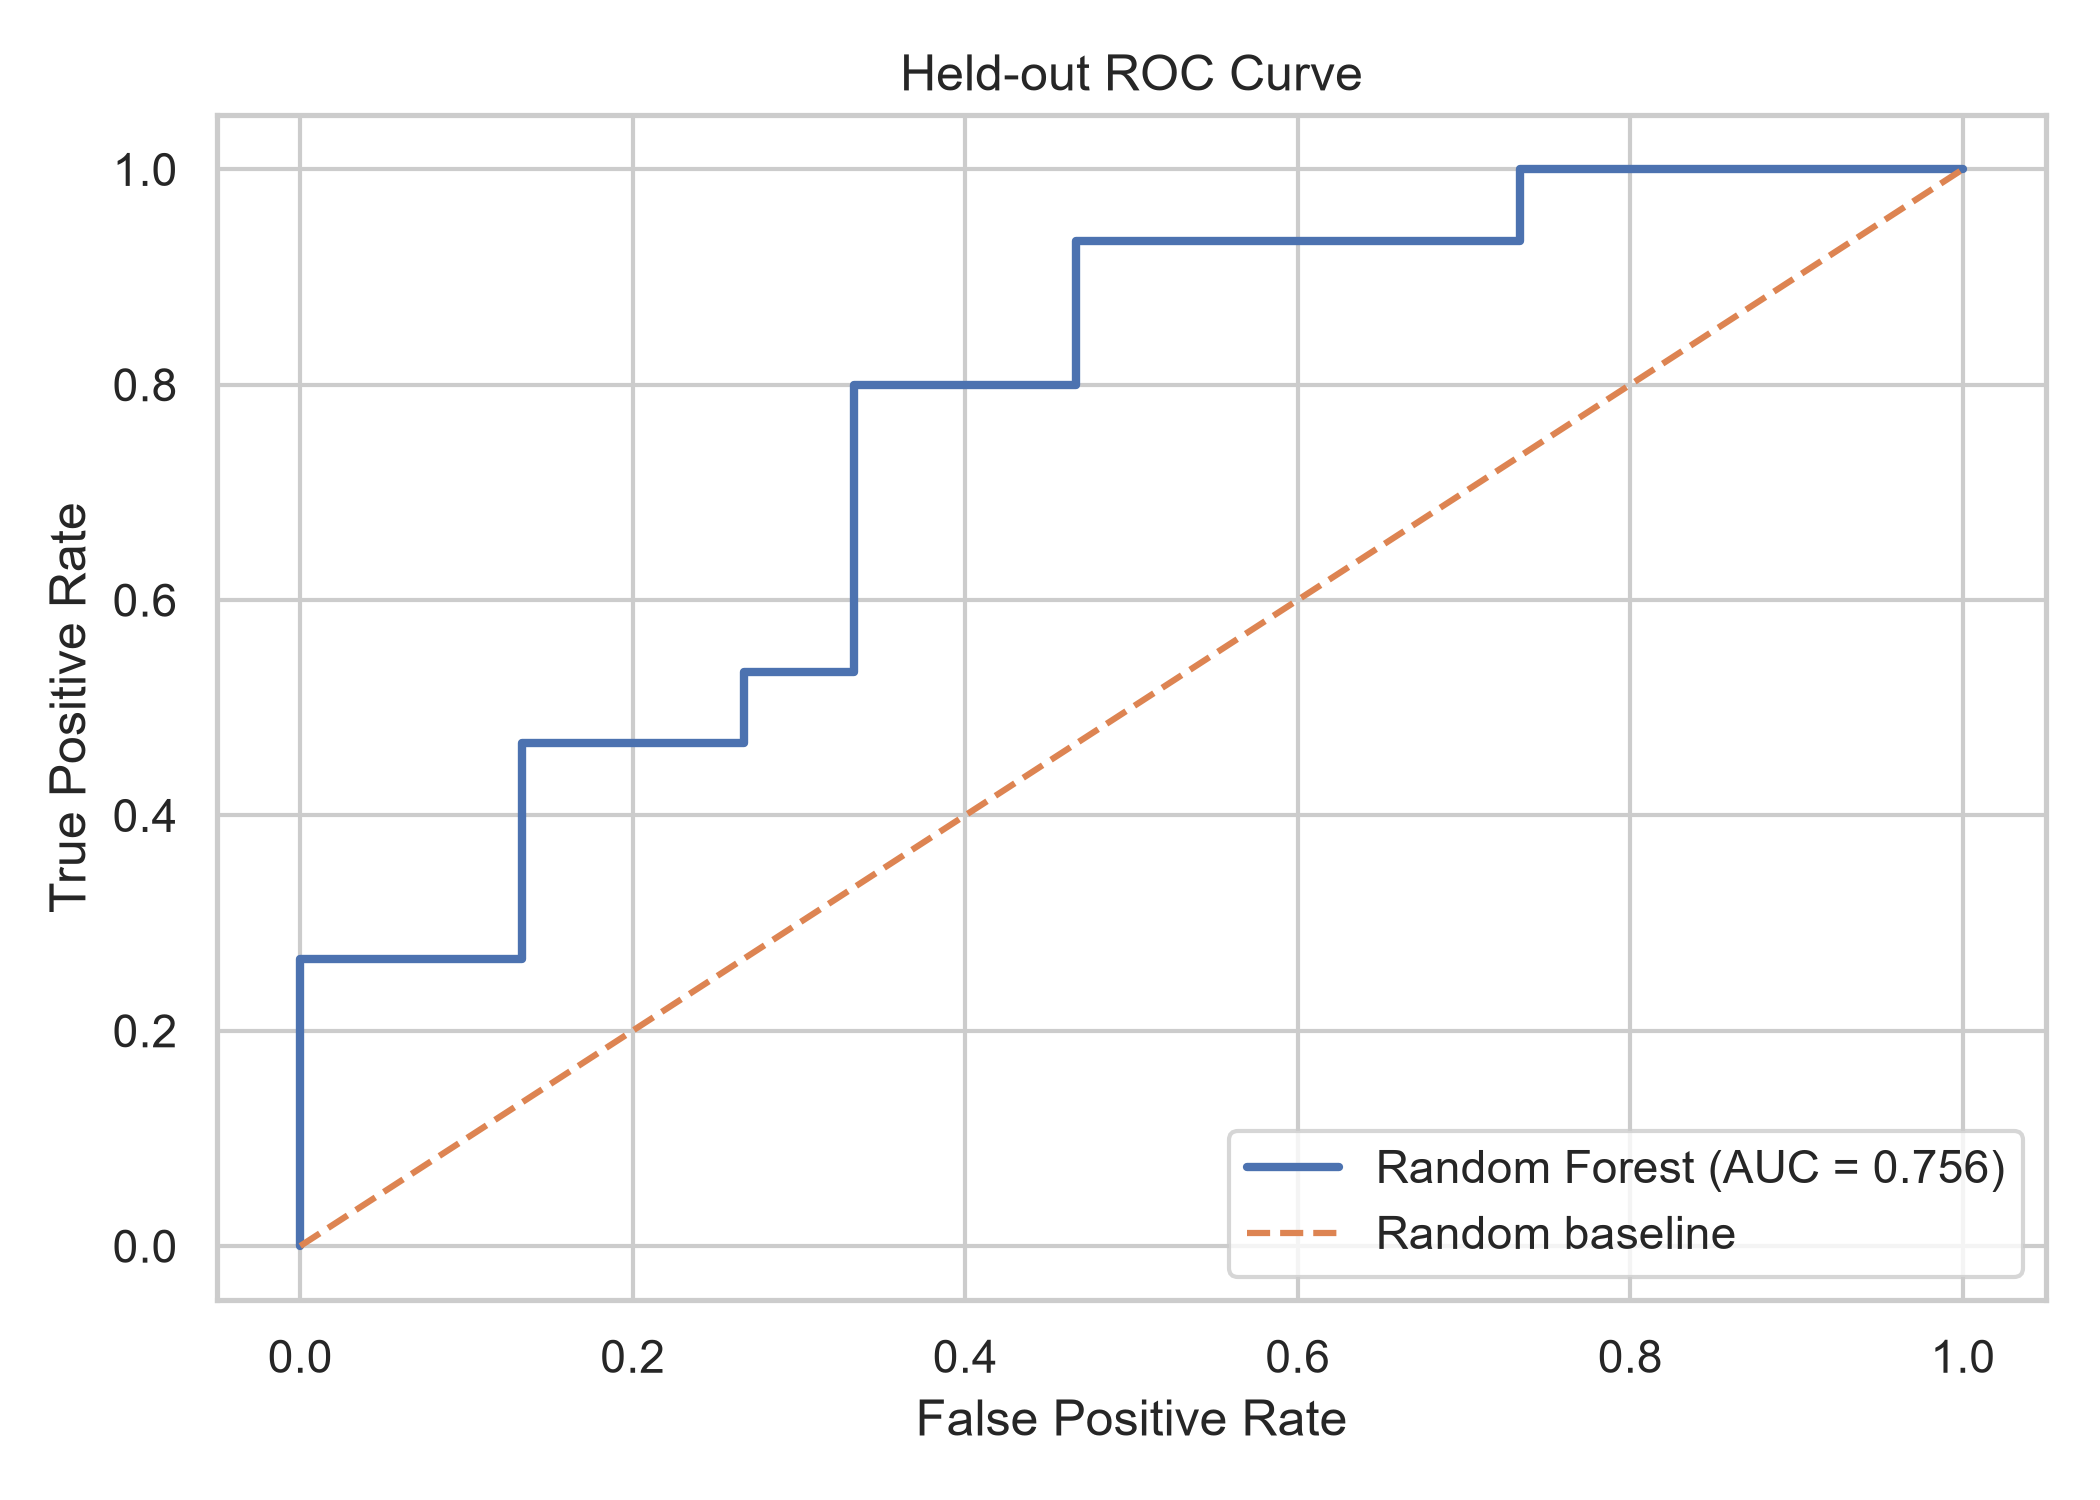
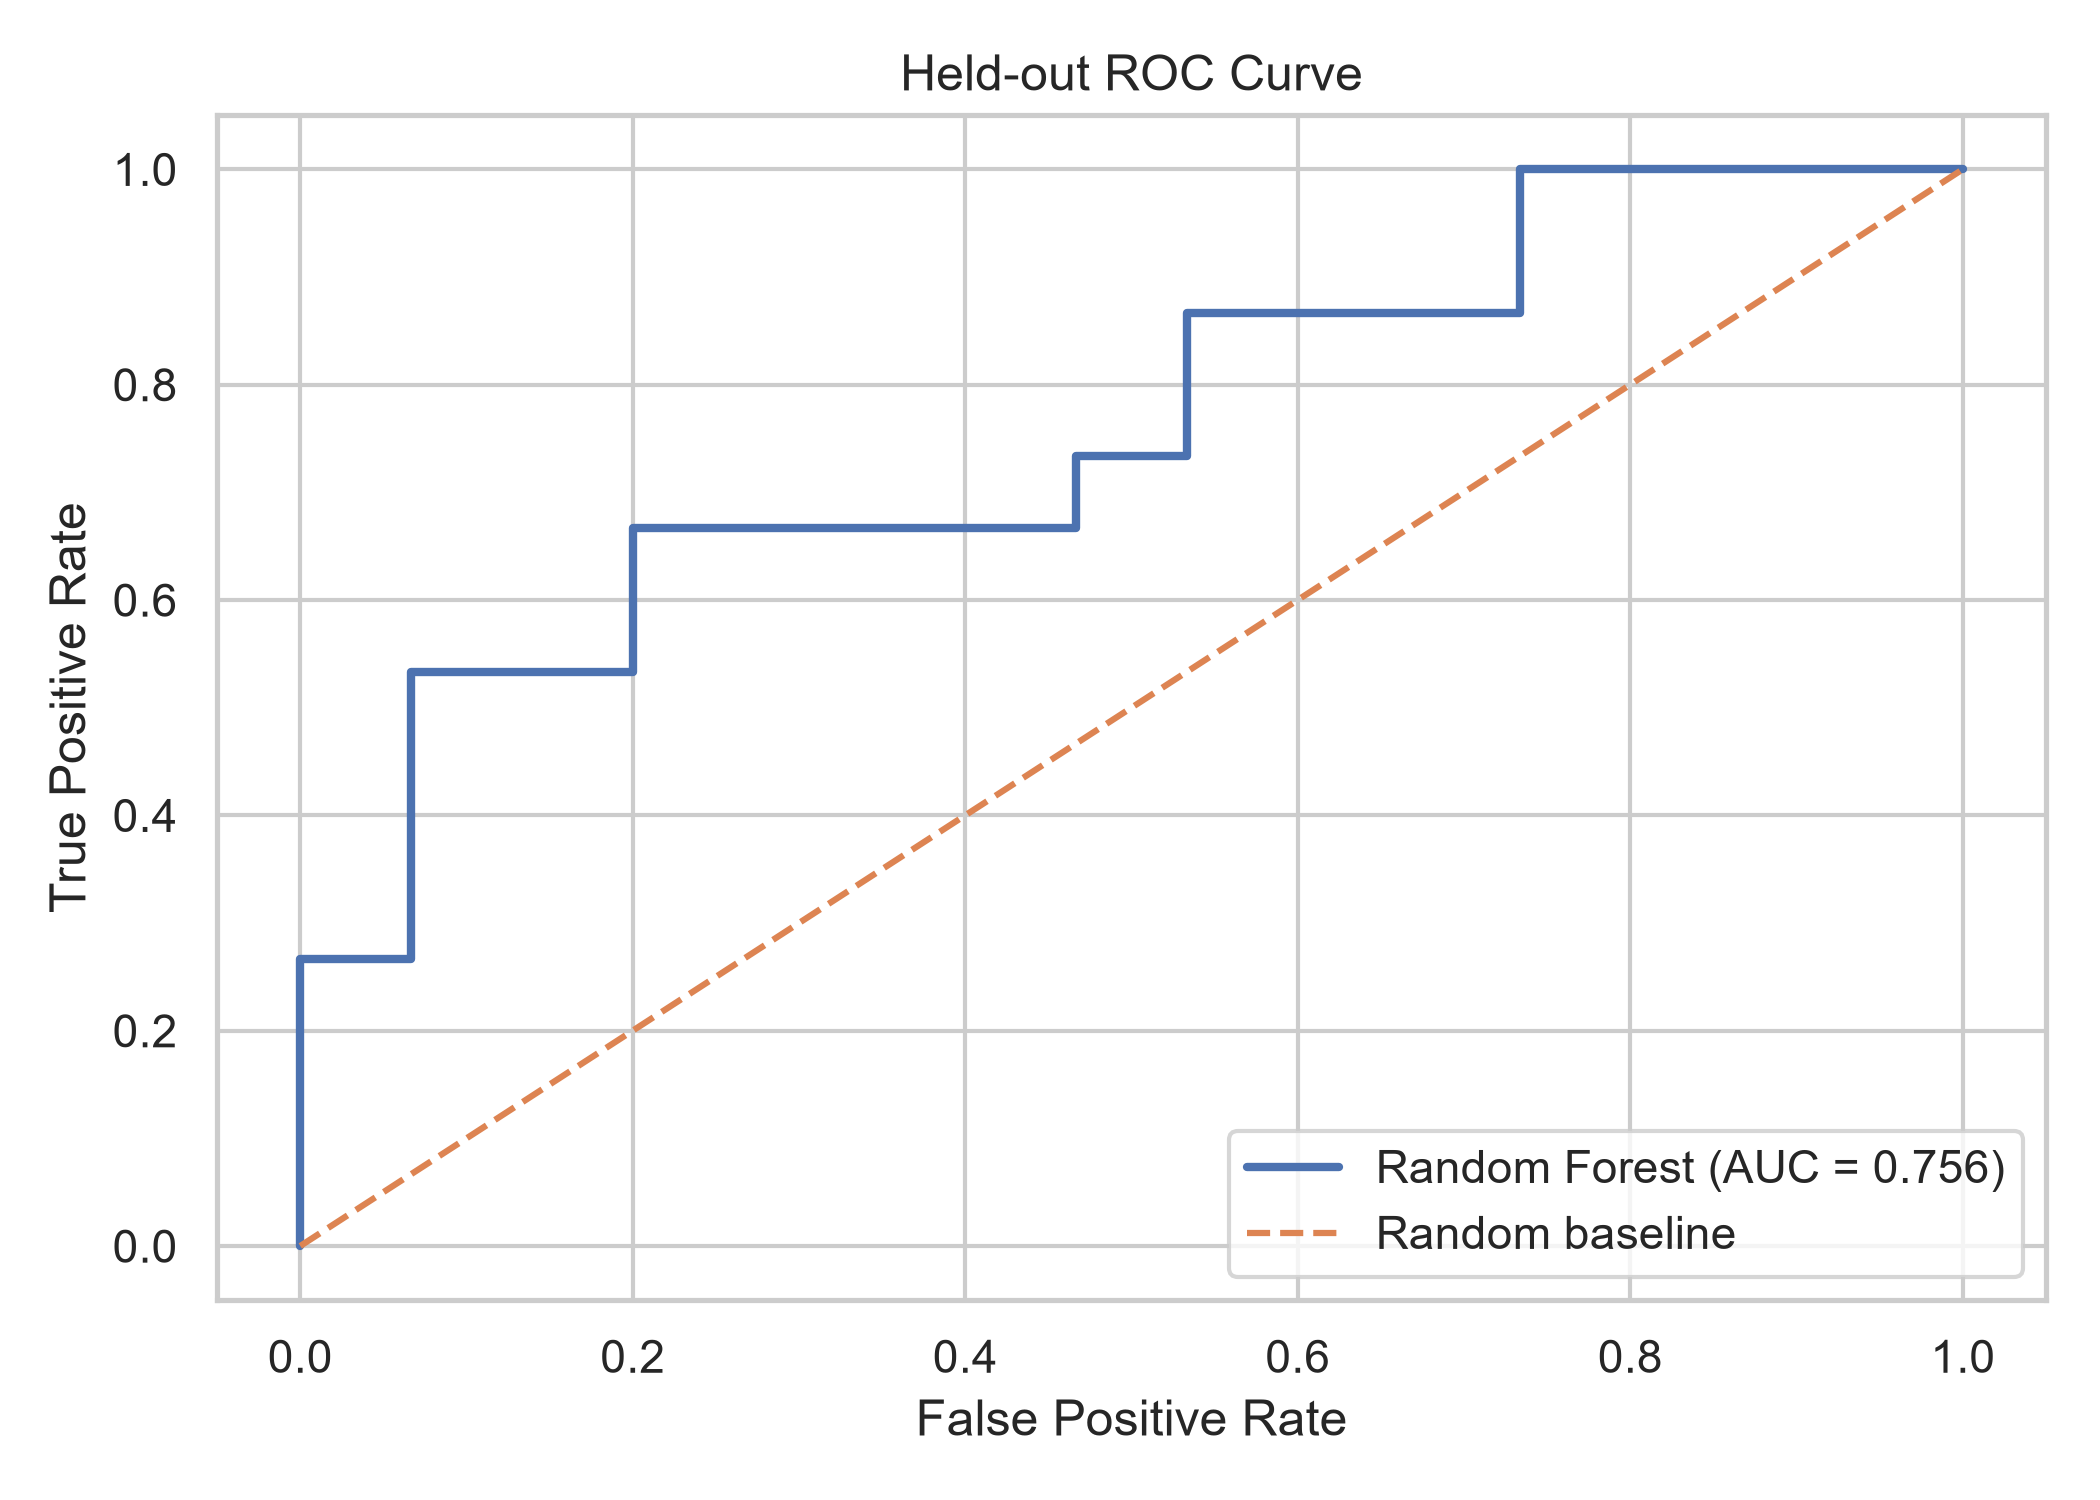
fix: align trajectory clustering labels and diagnostics with reference visualization

Changed region(s): [[0.1857, 0.1533, 0.7429, 0.644]]

diff --git a/src/evaluation/evaluator.py b/src/evaluation/evaluator.py
@@ -263,34 +263,64 @@ def _save_trajectory_plot(
     trajectory_matrix,
     tracking_feature,
     output_dir,
+    y_true=None,
+    y_pred=None,
 ):
-    """Save individual subject trajectories grouped by cluster."""
+    """Save the confusion matrix and color-coded cluster trajectories."""
 
     visit_columns = [
         col for col in trajectory_matrix.columns
         if col != "Trajectory_Cluster"
     ]
 
-    fig, ax = plt.subplots(figsize=(9, 6))
+    if y_true is not None and y_pred is not None:
+        fig, (cm_ax, ax) = plt.subplots(1, 2, figsize=(16, 6))
+        cm = confusion_matrix(y_true, y_pred, labels=[0, 1])
+        sns.heatmap(
+            cm,
+            annot=True,
+            fmt="d",
+            cmap="Blues",
+            cbar=False,
+            xticklabels=["Stable (0)", "Declining (1)"],
+            yticklabels=["Stable (0)", "Declining (1)"],
+            annot_kws={"size": 14, "weight": "bold"},
+            ax=cm_ax,
+        )
+        cm_ax.set_title("Held-Out Blind Confusion Matrix")
+        cm_ax.set_xlabel("Predicted Trajectory Group")
+        cm_ax.set_ylabel("True Reality Trajectory Group")
+    else:
+        fig, ax = plt.subplots(figsize=(9, 6))
+
+    colors = {0: "#3498db", 1: "#e74c3c"}
+    x_indices = list(range(1, len(visit_columns) + 1))
 
     for _, row in trajectory_matrix.iterrows():
-        cluster = row["Trajectory_Cluster"]
+        cluster = int(row["Trajectory_Cluster"])
 
         ax.plot(
-            range(1, len(visit_columns) + 1),
+            x_indices,
             row[visit_columns].to_numpy(dtype=float),
+            color=colors[cluster],
             alpha=0.25,
-            linewidth=1.2,
-            label=f"Cluster {cluster}",
+            linewidth=1.5,
         )
 
-    ax.set_title(f"Longitudinal Trajectories ({tracking_feature})")
-    ax.set_xlabel("Visit Sequence")
-    ax.set_ylabel("Normalized Brain Volume")
-
-    handles, labels = ax.get_legend_handles_labels()
-    unique = dict(zip(labels, handles))
-    ax.legend(unique.values(), unique.keys())
+    ax.set_title(f"Discovered Long-Term Brain Atrophy Paths ({tracking_feature})")
+    ax.set_xlabel("Clinical Visit Sequence")
+    ax.set_ylabel("Normalized Whole Brain Volume (nWBV)")
+    ax.set_xticks(x_indices)
+    ax.set_xticklabels(visit_columns)
+    ax.legend(
+        handles=[
+            plt.Line2D([], [], color=colors[0], linewidth=3,
+                       label="Cluster 0: Healthy Stable"),
+            plt.Line2D([], [], color=colors[1], linewidth=3,
+                       label="Cluster 1: Accelerated Atrophy"),
+        ],
+        loc="lower left",
+    )
 
     fig.tight_layout()
     fig.savefig(output_dir / "trajectory_clusters.png", dpi=300)
@@ -335,6 +365,11 @@ def evaluate_model(
         test_clusters = clustering_model.predict(
             test_trajectory_matrix
         )
+        label_map = getattr(clustering_model, "trajectory_label_map_", None)
+        if label_map is not None:
+            test_clusters = np.asarray(
+                [label_map[int(label)] for label in test_clusters]
+            )
 
         test_labels = pd.Series(
             test_clusters,
@@ -407,6 +442,8 @@ def evaluate_model(
             train_trajectory_matrix,
             tracking_feature,
             output_dir,
+            y_true=y_test,
+            y_pred=y_pred,
         )
 
         auc_score = None

diff --git a/src/models/trajectory.py b/src/models/trajectory.py
@@ -152,6 +152,24 @@ def build_and_fit_trajectories(
             trajectory_matrix
         )
 
+        # K-Means cluster numbers are arbitrary.  Give them a stable
+        # clinical meaning: 0 = higher-volume/stable and 1 = lower-volume/
+        # declining.  Store the mapping on the fitted pipeline so the same
+        # convention can be applied to held-out subjects during evaluation.
+        raw_centers = clustering_pipeline.named_steps["kmeans"].cluster_centers_
+        centers = clustering_pipeline.named_steps["scaler"].inverse_transform(
+            raw_centers
+        )
+        stable_raw_label = int(np.argmax(centers.mean(axis=1)))
+        label_map = {
+            stable_raw_label: 0,
+            1 - stable_raw_label: 1,
+        }
+        clustering_pipeline.trajectory_label_map_ = label_map
+        cluster_labels = np.asarray(
+            [label_map[int(label)] for label in cluster_labels]
+        )
+
         # 6. Attach cluster assignments.
         trajectory_matrix["Trajectory_Cluster"] = cluster_labels
 

diff --git a/src/models/forecaster.py b/src/models/forecaster.py
@@ -353,7 +353,11 @@ def train_baseline_forecaster(
             min_samples_leaf=min_samples_leaf,
             class_weight="balanced",
             random_state=random_state,
-            n_jobs=-1,
+            # Single-process execution is more portable on restricted
+            # Windows/Jupyter environments where joblib worker creation can
+            # fail with WinError 5.  The dataset is small enough that the
+            # runtime impact is negligible.
+            n_jobs=1,
         )
 
         forecasting_pipeline = Pipeline(
